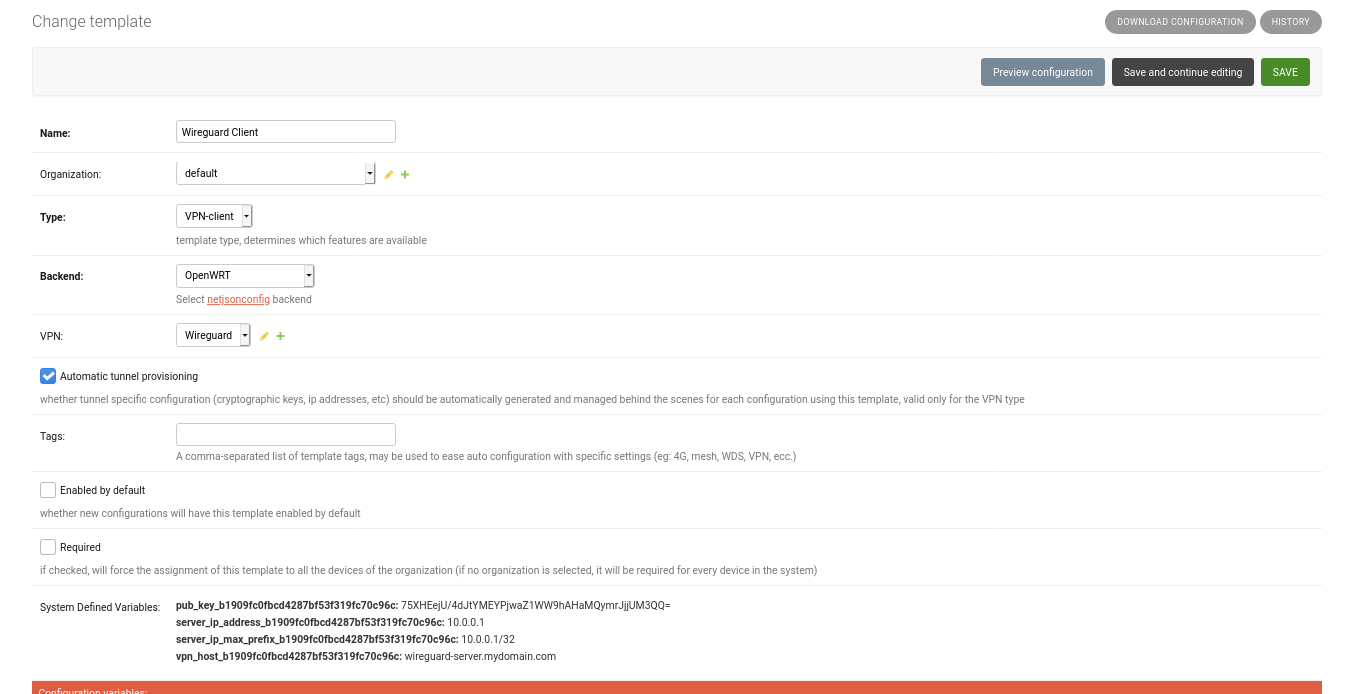
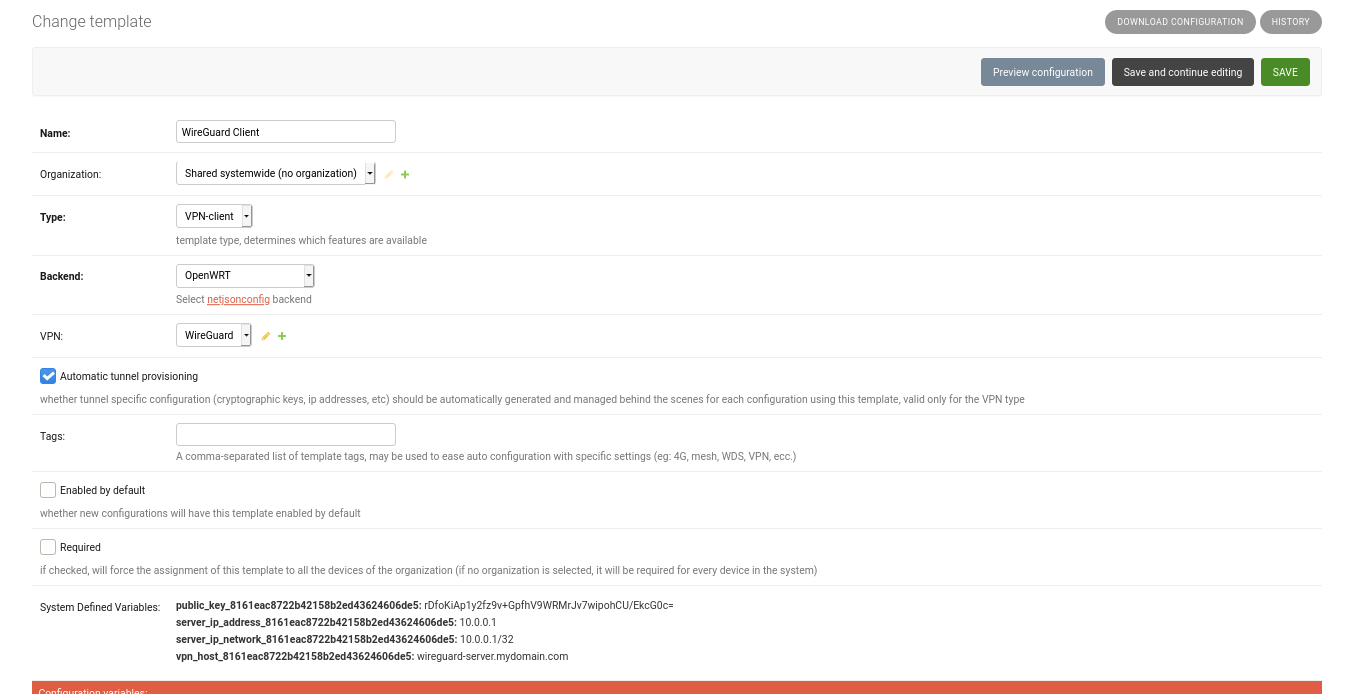
[chore] Renamed "pub_key" system defined variable to "public_key" #448
Closes #448

diff --git a/openwisp_controller/config/tests/test_vpn.py b/openwisp_controller/config/tests/test_vpn.py
@@ -494,7 +494,7 @@ class TestWireguard(BaseTestVpn, TestWireguardVpnMixin, TestCase):
 
         with self.subTest('test context keys'):
             context_keys = vpn._get_auto_context_keys()
-            self.assertIn('pub_key', context_keys)
+            self.assertIn('public_key', context_keys)
             self.assertIn('ip_address', context_keys)
             self.assertIn('server_ip_address', context_keys)
             self.assertIn('server_ip_network', context_keys)
@@ -579,7 +579,7 @@ class TestWireguardTransaction(BaseTestVpn, TestWireguardVpnMixin, TransactionTe
             self.assertEqual(context[f'ip_address_{pk}'], '10.0.0.2')
             self.assertEqual(context[f'server_ip_address_{pk}'], '10.0.0.1')
             self.assertEqual(context[f'server_ip_network_{pk}'], '10.0.0.1/32')
-            self.assertEqual(context[f'pub_key_{pk}'], vpn.public_key)
+            self.assertEqual(context[f'public_key_{pk}'], vpn.public_key)
 
         with self.subTest('cache update when a new peer is added'):
             device2 = self._create_device_config(

diff --git a/openwisp_controller/config/base/vpn.py b/openwisp_controller/config/base/vpn.py
@@ -268,7 +268,7 @@ class AbstractVpn(ShareableOrgMixinUniqueName, BaseConfig):
                 }
             )
         if self.public_key:
-            context[context_keys['pub_key']] = self.public_key
+            context[context_keys['public_key']] = self.public_key
         if self.ip:
             context[context_keys['server_ip_address']] = self.ip.ip_address
             context[
@@ -322,7 +322,7 @@ class AbstractVpn(ShareableOrgMixinUniqueName, BaseConfig):
         if self._is_backend_type('wireguard'):
             context_keys.update(
                 {
-                    'pub_key': 'pub_key_{}'.format(pk),
+                    'public_key': 'public_key_{}'.format(pk),
                     'ip_address': 'ip_address_{}'.format(pk),
                 }
             )
